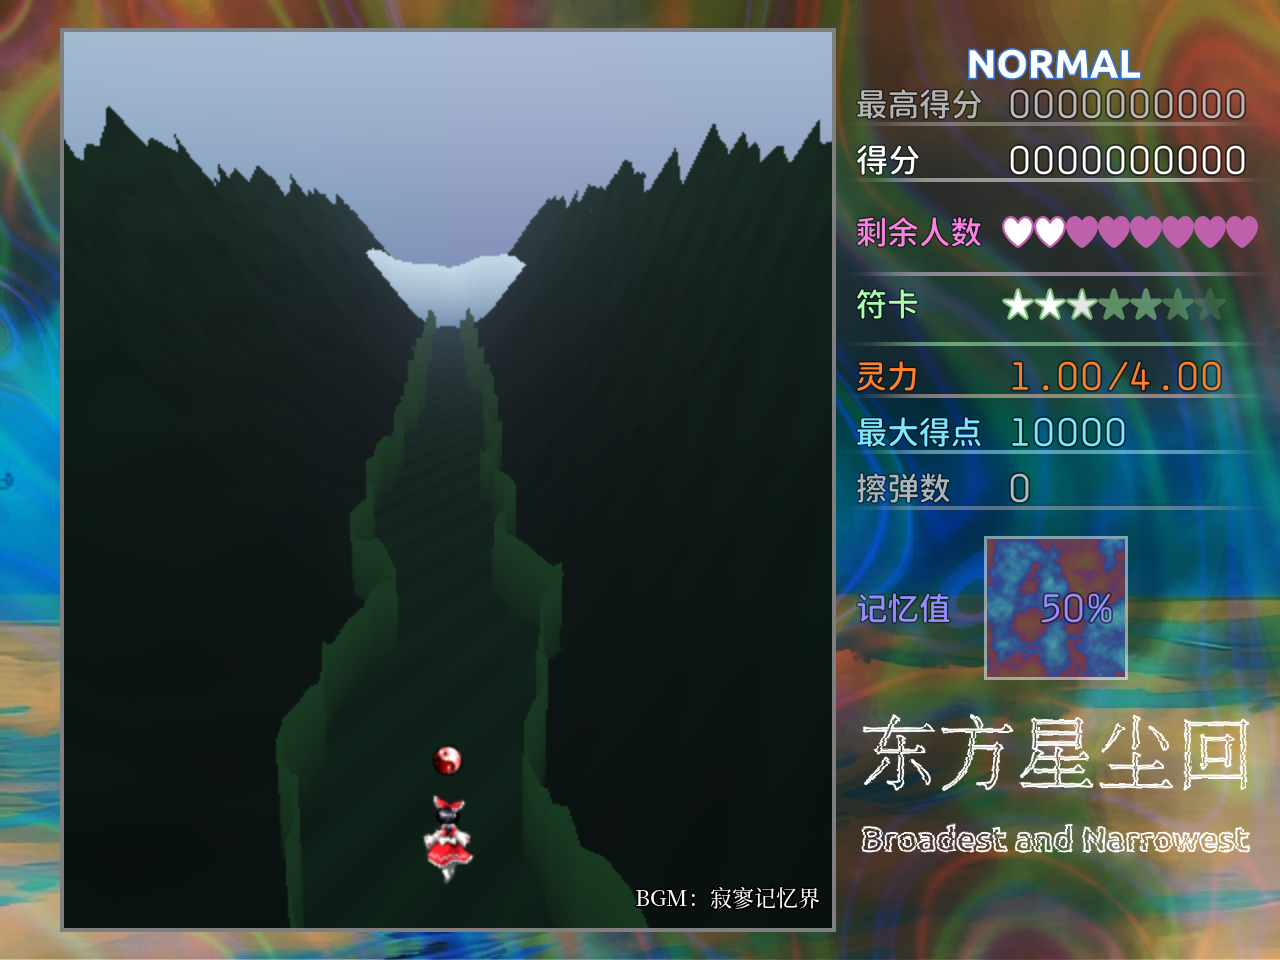
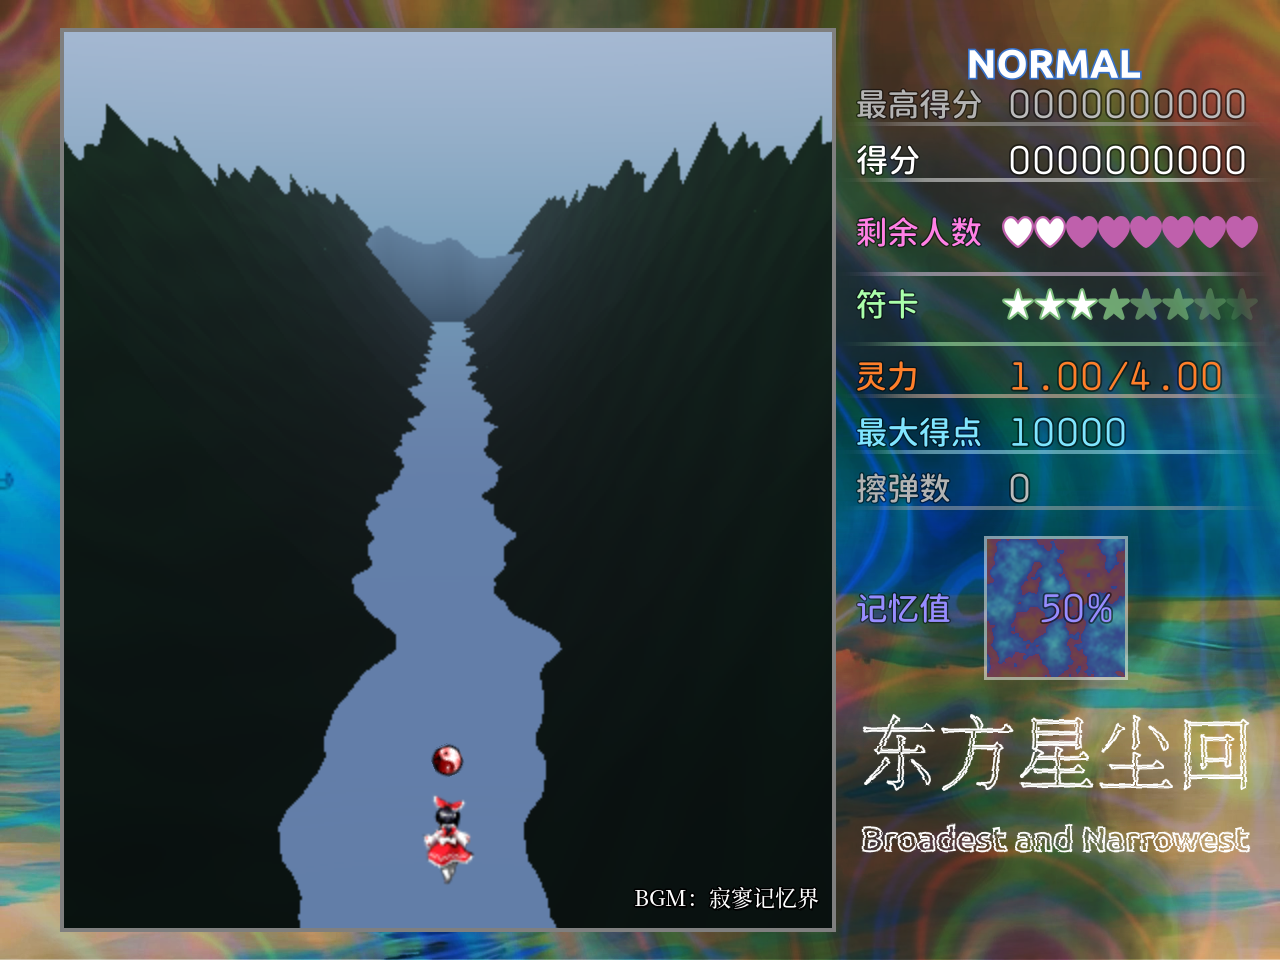
refine(background): remove stage4 floor and sky seam

diff --git a/docs/BEST_PRACTICES_LOG.md b/docs/BEST_PRACTICES_LOG.md
@@ -124,7 +124,7 @@
 - **主菜单残留记忆值**：持久 HUD 的 `Memory` 是嵌套 CanvasLayer，只隐藏外层 GameUI 不会隐藏它；新增 `GameUI.set_hud_visible()` 同时同步 Memory 层，回归测试覆盖。
 - **再次播放录像**：回放结束页重播前设置 `_continuing_replay = true`，避免旧 GameScene `_exit_tree` 把刚启动的 ReplaySession stop 掉；同时 `_exit_tree` 不再在继续回放时 `PracticeSession.finish()`，否则符卡练习录像会被清空、新场景退回普通 Stage 1。
 - **回放水印渐隐**：REPLAY 标的呼吸 tween 会每帧重写 alpha，HUD 统一淡出/隐藏时先停掉它；回归测试覆盖 `set_hud_alpha(0)` 时标也归零。
-- **Stage4 山谷背景原型**：新增 `stage04_valley_sky.tscn`（无限山谷 + 远山 + SkyDome 微彩天空），Stage04 暂时切到该背景；天空用 unshaded 天穹材质绕开 SubViewport 环境 sky 不生效的问题。
+- **Stage4 山谷背景原型**：新增 `stage04_valley_sky.tscn`（无限山谷 + 暗色远山 + SkyDome 微彩天空），Stage04 暂时切到该背景；天空用 unshaded 天穹材质绕开 SubViewport 环境 sky 不生效的问题。按作者反馈移除谷底/森林线、天空改竖直色带避免接缝、远山改暗避免白色物体。
 - **回放水印**：GameUI 从 `front02.png` 的 `(64,416,156,32)` 切出 REPLAY 标，放在场地中心（448,480），仅 `ReplaySession.is_playing()` 时显示；alpha 在 0.10–0.24 间 1.2s 呼吸。
 - **HUD 淡出 freed object**：`set_hud_alpha` 原来先 `as CanvasItem` 再判有效，节点被场景释放时会报 cast freed object；改为先 `is_instance_valid` 并从缓存剔除，再转换。
 - **暂停页字体**：去掉暂停菜单所有 Label 的黑色描边（标题/副标题/选项/确认面板），文字直接压在框内模糊画面上。
